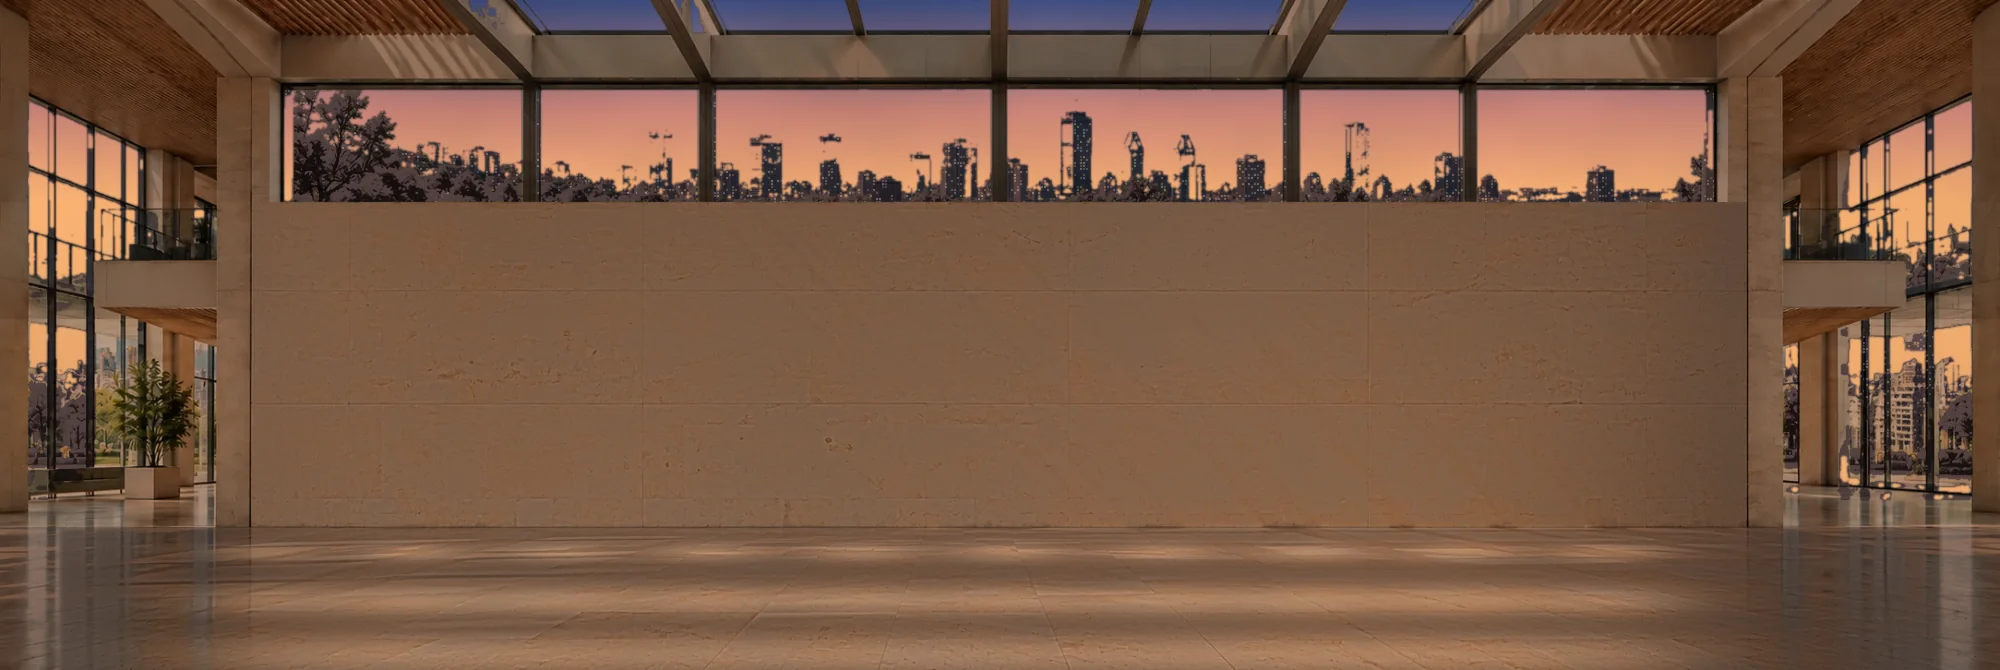
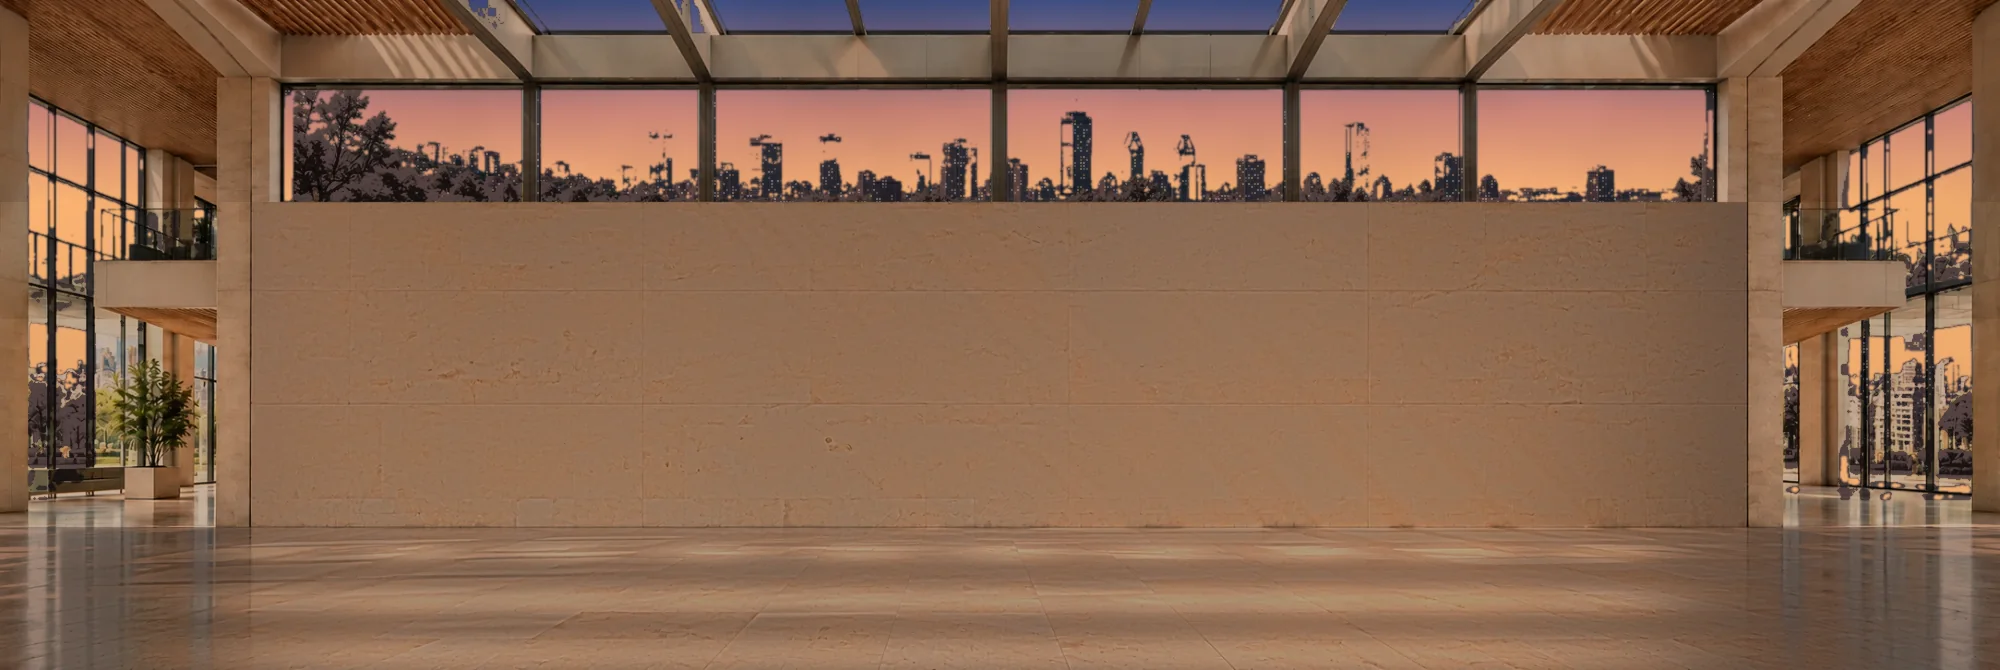
Hall : nuit et crépuscule nettement plus éclairés
Lumière du plafond plus forte sur le mur, le sol et les poutres ; portes et
panneaux presque aussi clairs que le jour.

diff --git a/ru/index.html b/ru/index.html
@@ -29,7 +29,7 @@
 <meta name="twitter:card" content="summary_large_image">
 <script type="application/ld+json">{"@context":"https://schema.org","@type":"Person","name":"Éric Bernier","url":"https://erjb-web.github.io/","image":"https://erjb-web.github.io/assets/portrait.jpg","jobTitle":"Аспирант по общественному здравоохранению · ESPUM · CRCHUM","email":"mailto:eric.bernier.1@umontreal.ca","affiliation":[{"@type":"CollegeOrUniversity","name":"École de santé publique de l’Université de Montréal (ESPUM)"},{"@type":"ResearchOrganization","name":"Centre de recherche du CHUM (CRCHUM)"}],"alumniOf":[{"@type":"CollegeOrUniversity","name":"Université Paris Panthéon-Assas"},{"@type":"CollegeOrUniversity","name":"Université de Bretagne Occidentale"}],"knowsAbout":["Управление и оценка политики здравоохранения","Межсекторальный подход в первичной медицинской помощи","Старение, утрата самостоятельности и политика поддержки жизни дома"],"sameAs":["https://orcid.org/0009-0001-4236-4932"]}</script>
 <script src="../assets/hall-marche.js?v=803fe3059b" defer></script>
-<script src="../assets/hall-ciel.js?v=1c527ebcdc" defer></script>
+<script src="../assets/hall-ciel.js?v=b01a07ddfe" defer></script>
 <script src="../assets/site.js?v=fbb0a31b2f" defer></script>
 <script src="../assets/vulgarisation-studio.js?v=quizfix20261016" defer></script>
 <script src="../assets/vulgarisation-editorial.js?v=20261015editorial4" defer></script>

diff --git a/ar/index.html b/ar/index.html
@@ -29,7 +29,7 @@
 <meta name="twitter:card" content="summary_large_image">
 <script type="application/ld+json">{"@context":"https://schema.org","@type":"Person","name":"Éric Bernier","url":"https://erjb-web.github.io/","image":"https://erjb-web.github.io/assets/portrait.jpg","jobTitle":"طالب دكتوراه في الصحة العامة · ESPUM · CRCHUM","email":"mailto:eric.bernier.1@umontreal.ca","affiliation":[{"@type":"CollegeOrUniversity","name":"École de santé publique de l’Université de Montréal (ESPUM)"},{"@type":"ResearchOrganization","name":"Centre de recherche du CHUM (CRCHUM)"}],"alumniOf":[{"@type":"CollegeOrUniversity","name":"Université Paris Panthéon-Assas"},{"@type":"CollegeOrUniversity","name":"Université de Bretagne Occidentale"}],"knowsAbout":["حوكمة السياسات الصحية وتقييمها","المقاربة المشتركة بين القطاعات في خط الرعاية الأول","الشيخوخة وفقدان الاستقلالية وسياسات دعم البقاء في المنزل"],"sameAs":["https://orcid.org/0009-0001-4236-4932"]}</script>
 <script src="../assets/hall-marche.js?v=803fe3059b" defer></script>
-<script src="../assets/hall-ciel.js?v=1c527ebcdc" defer></script>
+<script src="../assets/hall-ciel.js?v=b01a07ddfe" defer></script>
 <script src="../assets/site.js?v=fbb0a31b2f" defer></script>
 <script src="../assets/vulgarisation-studio.js?v=quizfix20261016" defer></script>
 <script src="../assets/vulgarisation-editorial.js?v=20261015editorial4" defer></script>

diff --git a/innu/index.html b/innu/index.html
@@ -27,7 +27,7 @@
 <meta name="twitter:card" content="summary_large_image">
 <script type="application/ld+json">{"@context":"https://schema.org","@type":"Person","name":"Éric Bernier","url":"https://erjb-web.github.io/","image":"https://erjb-web.github.io/assets/portrait.jpg","jobTitle":"Doctorant en santé publique · ESPUM · CRCHUM","email":"mailto:eric.bernier.1@umontreal.ca","affiliation":[{"@type":"CollegeOrUniversity","name":"École de santé publique de l’Université de Montréal (ESPUM)"},{"@type":"ResearchOrganization","name":"Centre de recherche du CHUM (CRCHUM)"}],"alumniOf":[{"@type":"CollegeOrUniversity","name":"Université Paris Panthéon-Assas"},{"@type":"CollegeOrUniversity","name":"Université de Bretagne Occidentale"}],"knowsAbout":["Gouvernance et évaluation des politiques de santé","Approche intersectorielle en première ligne","Vieillissement, perte d’autonomie et politiques du maintien à domicile"],"sameAs":["https://orcid.org/0009-0001-4236-4932"]}</script>
 <script src="../assets/hall-marche.js?v=803fe3059b" defer></script>
-<script src="../assets/hall-ciel.js?v=1c527ebcdc" defer></script>
+<script src="../assets/hall-ciel.js?v=b01a07ddfe" defer></script>
 <script src="../assets/site.js?v=fbb0a31b2f" defer></script>
 <script src="../assets/audience.js?v=32f18e181a" data-audience-website-id="782c7df7-c2cf-4578-bddc-fa02662324af" data-audience-domaines="erjb-web.github.io" defer></script>
 </head>

diff --git a/iu/index.html b/iu/index.html
@@ -27,7 +27,7 @@
 <meta name="twitter:card" content="summary_large_image">
 <script type="application/ld+json">{"@context":"https://schema.org","@type":"Person","name":"Éric Bernier","url":"https://erjb-web.github.io/","image":"https://erjb-web.github.io/assets/portrait.jpg","jobTitle":"Doctorant en santé publique · ESPUM · CRCHUM","email":"mailto:eric.bernier.1@umontreal.ca","affiliation":[{"@type":"CollegeOrUniversity","name":"École de santé publique de l’Université de Montréal (ESPUM)"},{"@type":"ResearchOrganization","name":"Centre de recherche du CHUM (CRCHUM)"}],"alumniOf":[{"@type":"CollegeOrUniversity","name":"Université Paris Panthéon-Assas"},{"@type":"CollegeOrUniversity","name":"Université de Bretagne Occidentale"}],"knowsAbout":["Gouvernance et évaluation des politiques de santé","Approche intersectorielle en première ligne","Vieillissement, perte d’autonomie et politiques du maintien à domicile"],"sameAs":["https://orcid.org/0009-0001-4236-4932"]}</script>
 <script src="../assets/hall-marche.js?v=803fe3059b" defer></script>
-<script src="../assets/hall-ciel.js?v=1c527ebcdc" defer></script>
+<script src="../assets/hall-ciel.js?v=b01a07ddfe" defer></script>
 <script src="../assets/site.js?v=fbb0a31b2f" defer></script>
 <script src="../assets/audience.js?v=32f18e181a" data-audience-website-id="782c7df7-c2cf-4578-bddc-fa02662324af" data-audience-domaines="erjb-web.github.io" defer></script>
 </head>

diff --git a/es/index.html b/es/index.html
@@ -29,7 +29,7 @@
 <meta name="twitter:card" content="summary_large_image">
 <script type="application/ld+json">{"@context":"https://schema.org","@type":"Person","name":"Éric Bernier","url":"https://erjb-web.github.io/","image":"https://erjb-web.github.io/assets/portrait.jpg","jobTitle":"Doctorando en salud pública · ESPUM · CRCHUM","email":"mailto:eric.bernier.1@umontreal.ca","affiliation":[{"@type":"CollegeOrUniversity","name":"École de santé publique de l’Université de Montréal (ESPUM)"},{"@type":"ResearchOrganization","name":"Centre de recherche du CHUM (CRCHUM)"}],"alumniOf":[{"@type":"CollegeOrUniversity","name":"Université Paris Panthéon-Assas"},{"@type":"CollegeOrUniversity","name":"Université de Bretagne Occidentale"}],"knowsAbout":["Gobernanza y evaluación de las políticas de salud","Enfoque intersectorial en atención primaria","Envejecimiento, pérdida de autonomía y políticas de permanencia en el domicilio"],"sameAs":["https://orcid.org/0009-0001-4236-4932"]}</script>
 <script src="../assets/hall-marche.js?v=803fe3059b" defer></script>
-<script src="../assets/hall-ciel.js?v=1c527ebcdc" defer></script>
+<script src="../assets/hall-ciel.js?v=b01a07ddfe" defer></script>
 <script src="../assets/site.js?v=fbb0a31b2f" defer></script>
 <script src="../assets/vulgarisation-studio.js?v=quizfix20261016" defer></script>
 <script src="../assets/vulgarisation-editorial.js?v=20261015editorial4" defer></script>

diff --git a/index.html b/index.html
@@ -29,7 +29,7 @@
 <meta name="twitter:card" content="summary_large_image">
 <script type="application/ld+json">{"@context":"https://schema.org","@type":"Person","name":"Éric Bernier","url":"https://erjb-web.github.io/","image":"https://erjb-web.github.io/assets/portrait.jpg","jobTitle":"Doctorant en santé publique · ESPUM · CRCHUM","email":"mailto:eric.bernier.1@umontreal.ca","affiliation":[{"@type":"CollegeOrUniversity","name":"École de santé publique de l’Université de Montréal (ESPUM)"},{"@type":"ResearchOrganization","name":"Centre de recherche du CHUM (CRCHUM)"}],"alumniOf":[{"@type":"CollegeOrUniversity","name":"Université Paris Panthéon-Assas"},{"@type":"CollegeOrUniversity","name":"Université de Bretagne Occidentale"}],"knowsAbout":["Gouvernance et évaluation des politiques de santé","Approche intersectorielle en première ligne","Vieillissement, perte d’autonomie et politiques du maintien à domicile"],"sameAs":["https://orcid.org/0009-0001-4236-4932"]}</script>
 <script src="assets/hall-marche.js?v=803fe3059b" defer></script>
-<script src="assets/hall-ciel.js?v=1c527ebcdc" defer></script>
+<script src="assets/hall-ciel.js?v=b01a07ddfe" defer></script>
 <script src="assets/site.js?v=fbb0a31b2f" defer></script>
 <script src="assets/vulgarisation-studio.js?v=quizfix20261016" defer></script>
 <script src="assets/vulgarisation-editorial.js?v=20261015editorial4" defer></script>

diff --git a/en/index.html b/en/index.html
@@ -29,7 +29,7 @@
 <meta name="twitter:card" content="summary_large_image">
 <script type="application/ld+json">{"@context":"https://schema.org","@type":"Person","name":"Éric Bernier","url":"https://erjb-web.github.io/","image":"https://erjb-web.github.io/assets/portrait.jpg","jobTitle":"PhD student in public health · ESPUM · CRCHUM","email":"mailto:eric.bernier.1@umontreal.ca","affiliation":[{"@type":"CollegeOrUniversity","name":"École de santé publique de l’Université de Montréal (ESPUM)"},{"@type":"ResearchOrganization","name":"Centre de recherche du CHUM (CRCHUM)"}],"alumniOf":[{"@type":"CollegeOrUniversity","name":"Université Paris Panthéon-Assas"},{"@type":"CollegeOrUniversity","name":"Université de Bretagne Occidentale"}],"knowsAbout":["Governance and evaluation of health policy","Intersectoral approaches in primary care","Ageing, loss of autonomy and ageing-in-place policies"],"sameAs":["https://orcid.org/0009-0001-4236-4932"]}</script>
 <script src="../assets/hall-marche.js?v=803fe3059b" defer></script>
-<script src="../assets/hall-ciel.js?v=1c527ebcdc" defer></script>
+<script src="../assets/hall-ciel.js?v=b01a07ddfe" defer></script>
 <script src="../assets/site.js?v=fbb0a31b2f" defer></script>
 <script src="../assets/vulgarisation-studio.js?v=quizfix20261016" defer></script>
 <script src="../assets/vulgarisation-editorial.js?v=20261015editorial4" defer></script>

diff --git a/zh/index.html b/zh/index.html
@@ -29,7 +29,7 @@
 <meta name="twitter:card" content="summary_large_image">
 <script type="application/ld+json">{"@context":"https://schema.org","@type":"Person","name":"Éric Bernier","url":"https://erjb-web.github.io/","image":"https://erjb-web.github.io/assets/portrait.jpg","jobTitle":"公共卫生博士研究生 · ESPUM · CRCHUM","email":"mailto:eric.bernier.1@umontreal.ca","affiliation":[{"@type":"CollegeOrUniversity","name":"École de santé publique de l’Université de Montréal (ESPUM)"},{"@type":"ResearchOrganization","name":"Centre de recherche du CHUM (CRCHUM)"}],"alumniOf":[{"@type":"CollegeOrUniversity","name":"Université Paris Panthéon-Assas"},{"@type":"CollegeOrUniversity","name":"Université de Bretagne Occidentale"}],"knowsAbout":["卫生政策的治理与评估","第一线服务中的跨部门方法","老龄化、失能与居家养老政策"],"sameAs":["https://orcid.org/0009-0001-4236-4932"]}</script>
 <script src="../assets/hall-marche.js?v=803fe3059b" defer></script>
-<script src="../assets/hall-ciel.js?v=1c527ebcdc" defer></script>
+<script src="../assets/hall-ciel.js?v=b01a07ddfe" defer></script>
 <script src="../assets/site.js?v=fbb0a31b2f" defer></script>
 <script src="../assets/vulgarisation-studio.js?v=quizfix20261016" defer></script>
 <script src="../assets/vulgarisation-editorial.js?v=20261015editorial4" defer></script>

diff --git a/assets/hall-ciel.js b/assets/hall-ciel.js
@@ -119,7 +119,7 @@
     const dominante = nuit > 0.55 ? "nuit" : crepuscule > 0.5 ? "crepuscule-" + s : couvert > 0.5 ? "couvert-" + s : "jour-" + s;
     hall.style.setProperty("--hall-fond", photo(dominante));
     const soleil = (1 - nuit) * (1 - couvert) * (1 - crepuscule * 0.6);
-    const eclairage = 1 - nuit * 0.3 - crepuscule * 0.24 * (1 - nuit) - couvert * 0.06 * (1 - nuit);
+    const eclairage = 1 - nuit * 0.12 - crepuscule * 0.16 * (1 - nuit) - couvert * 0.06 * (1 - nuit);
     hall.style.setProperty("--hall-soleil", soleil.toFixed(3));
     hall.style.setProperty("--hall-eclairage", eclairage.toFixed(3));
     hall.style.setProperty("--hall-chaleur", (nuit * 0.12 + crepuscule * 0.2).toFixed(3));

diff --git a/falc/index.html b/falc/index.html
@@ -11,7 +11,7 @@
 <link rel="stylesheet" href="../assets/site.css?v=hallwall20261015c">
 <link rel="stylesheet" href="../assets/hall-realiste.css?v=4fe868f4c7">
 <script src="../assets/hall-marche.js?v=803fe3059b" defer></script>
-<script src="../assets/hall-ciel.js?v=1c527ebcdc" defer></script>
+<script src="../assets/hall-ciel.js?v=b01a07ddfe" defer></script>
 <script src="../assets/site.js?v=fbb0a31b2f" defer></script>
 <script src="../assets/audience.js?v=32f18e181a" data-audience-website-id="782c7df7-c2cf-4578-bddc-fa02662324af" data-audience-domaines="erjb-web.github.io" defer></script>
 </head>
